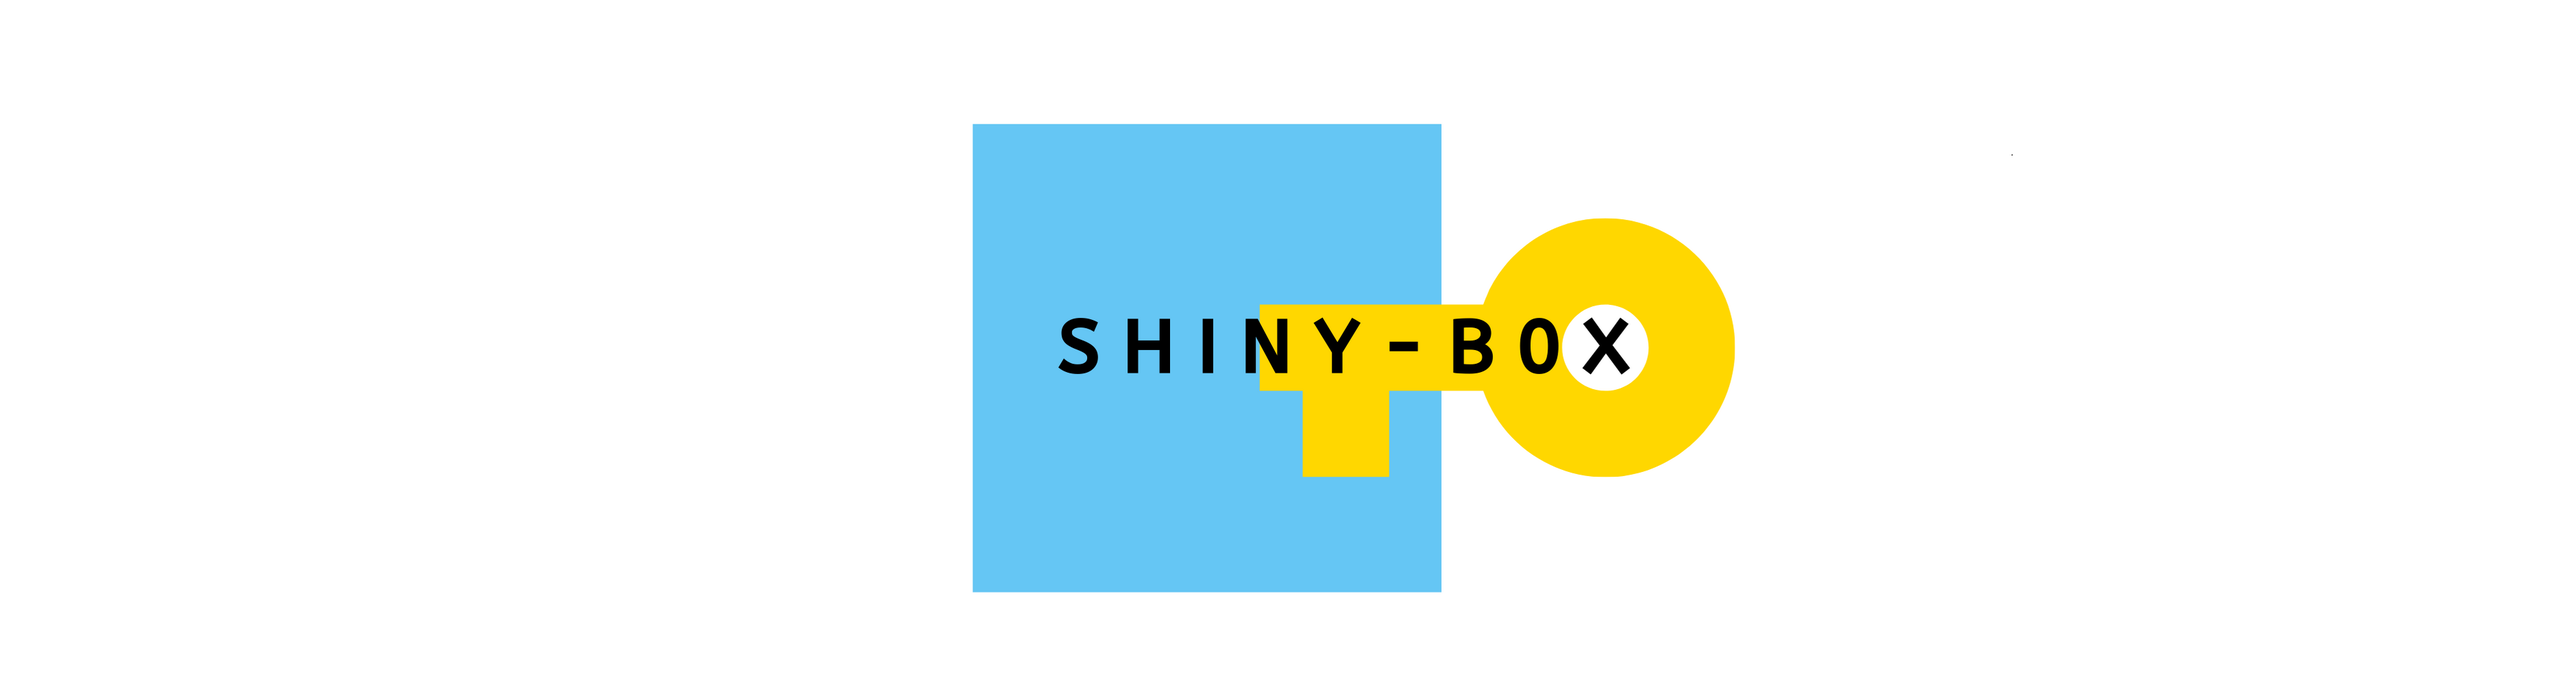
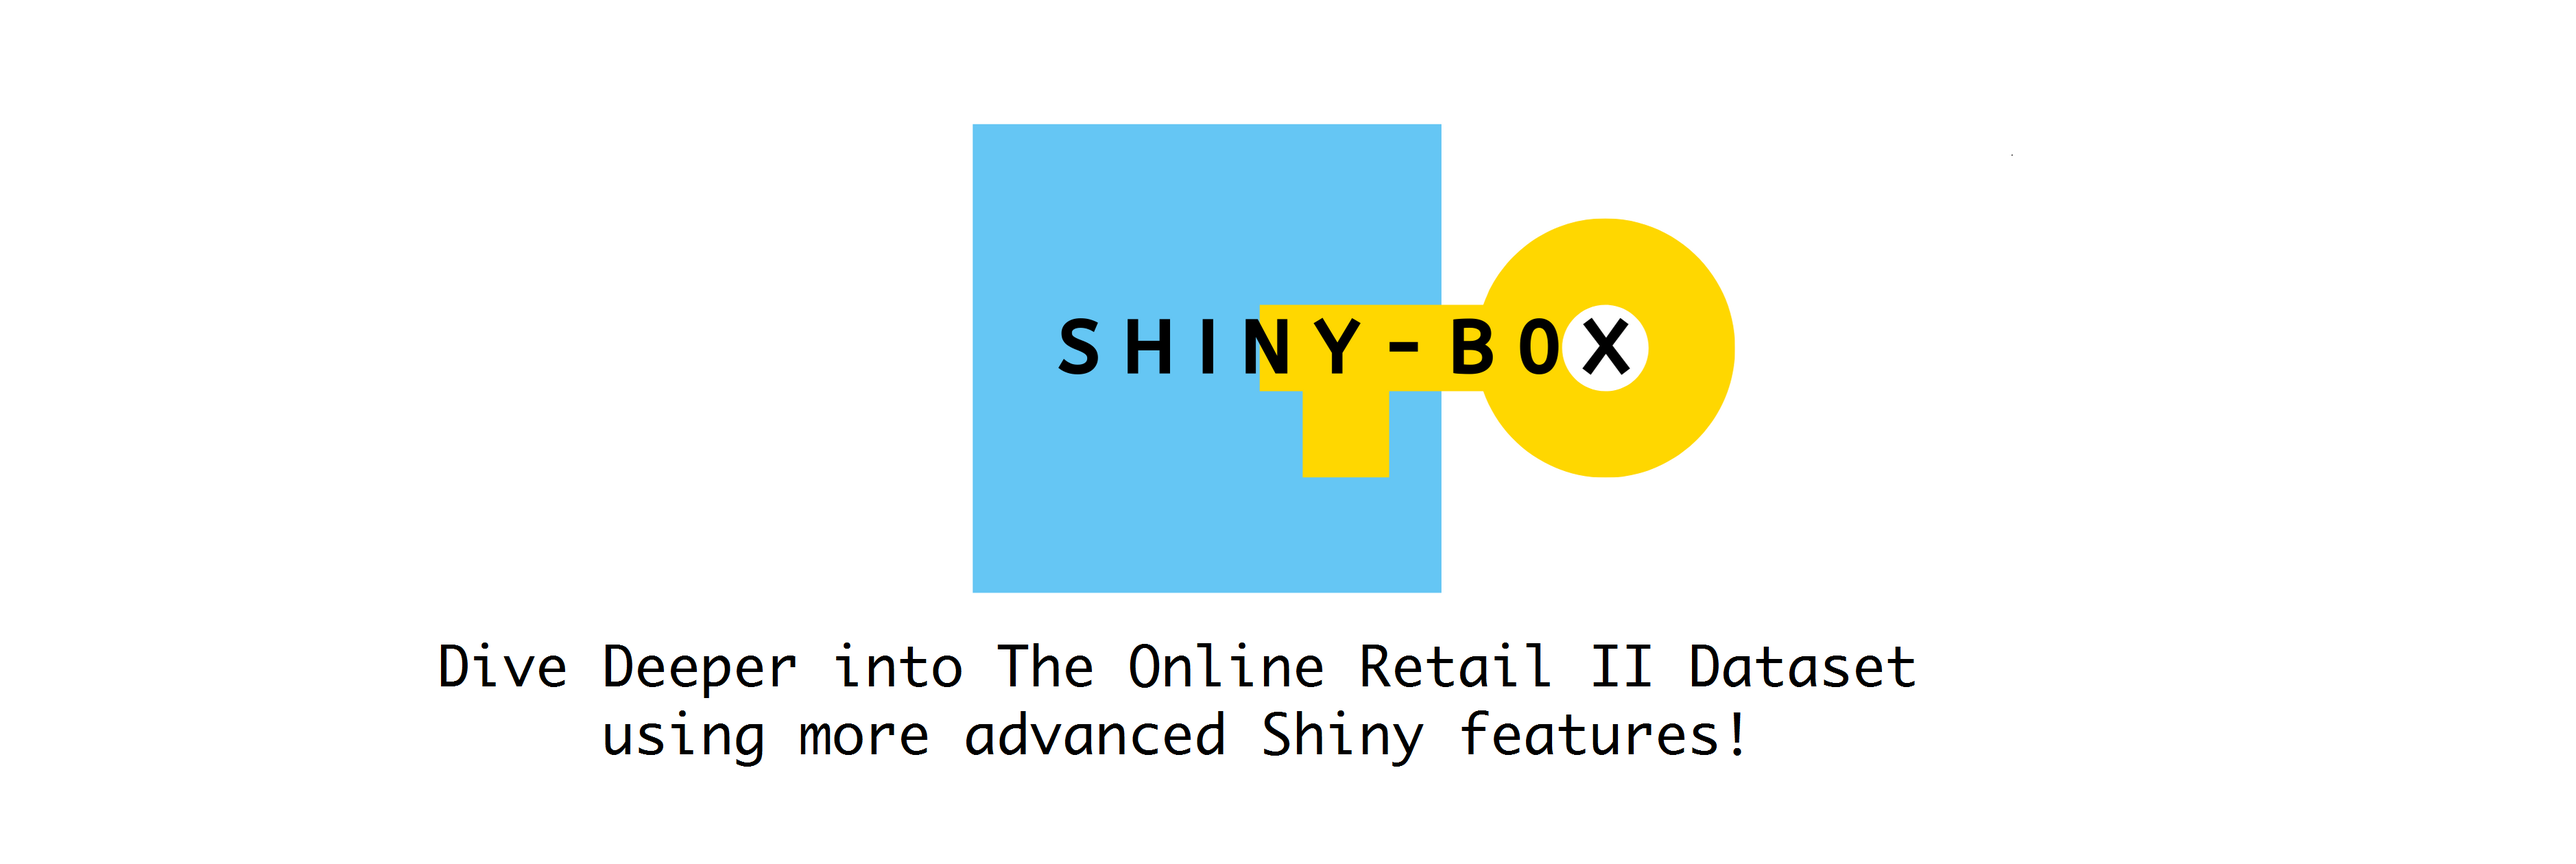
add interactive map

Changed region(s): [[0.1558, 0.2441, 0.7476, 0.8848], [0.3738, 0.122, 0.5607, 0.1831]]

diff --git a/README.md b/README.md
@@ -1,10 +1,10 @@
 # Shiny-Box
 
--ON DEVELOPMENT-
-
-Collection of frequently asked (and more advanced) shiny features in a box.
+Collection of frequently asked (and more advanced) shiny features in a box. This project is still under continuous development.
 
 Link-Shiny: https://nabiilahardini.shinyapps.io/Shiny-Box
+
+![](www/readme_logo.png)
 
 ## Changelog:
 
@@ -20,3 +20,6 @@ Link-Shiny: https://nabiilahardini.shinyapps.io/Shiny-Box
 * action & reset button
 * using `evenReactive()` and `observeEvent()` after action/reset button
 * create dynamic UI based on inputs with `renderUI()`, `insertUI()`, and `removeUI()`
+* reactive outputs based on leaflet `input$map_marker_click`
+* render gauge from `ECharts2Shiny` package
+* customized page length & scrollable `dataTableOutput()`
